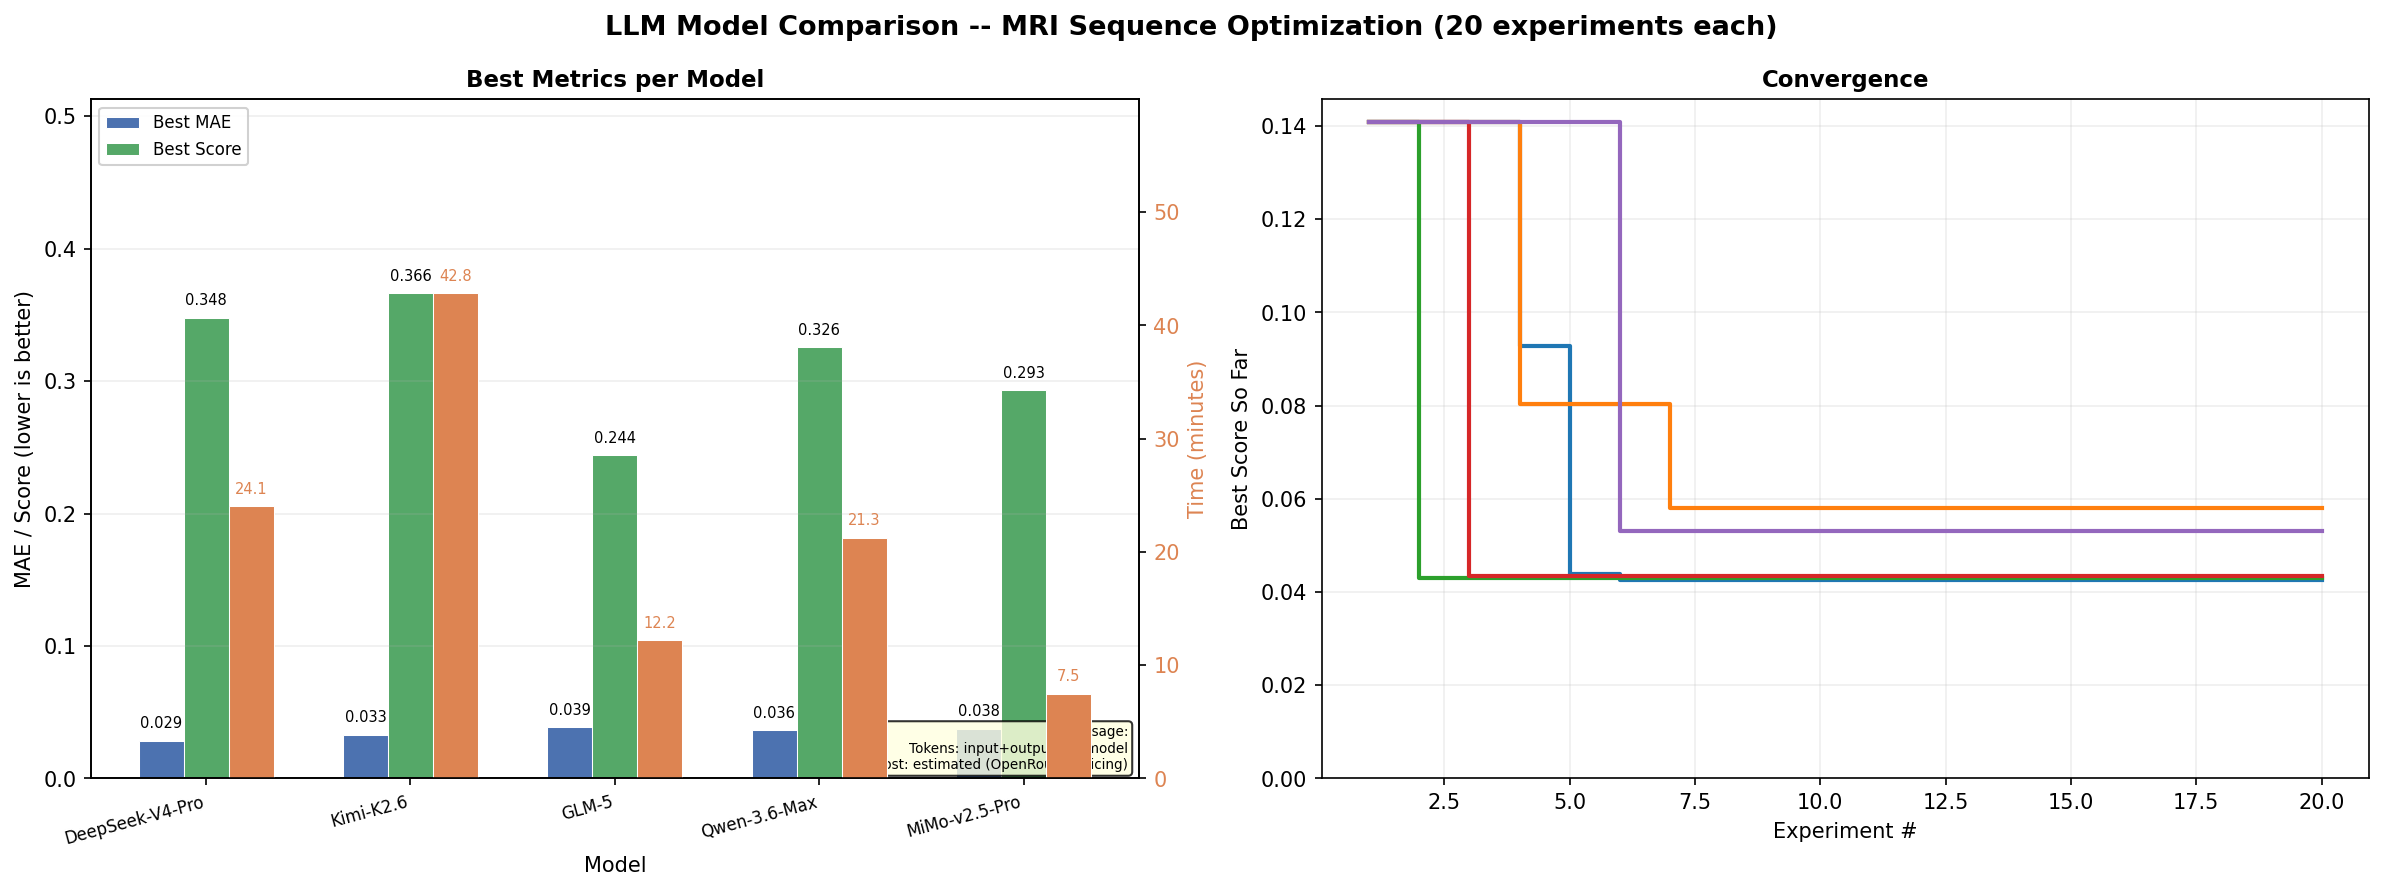
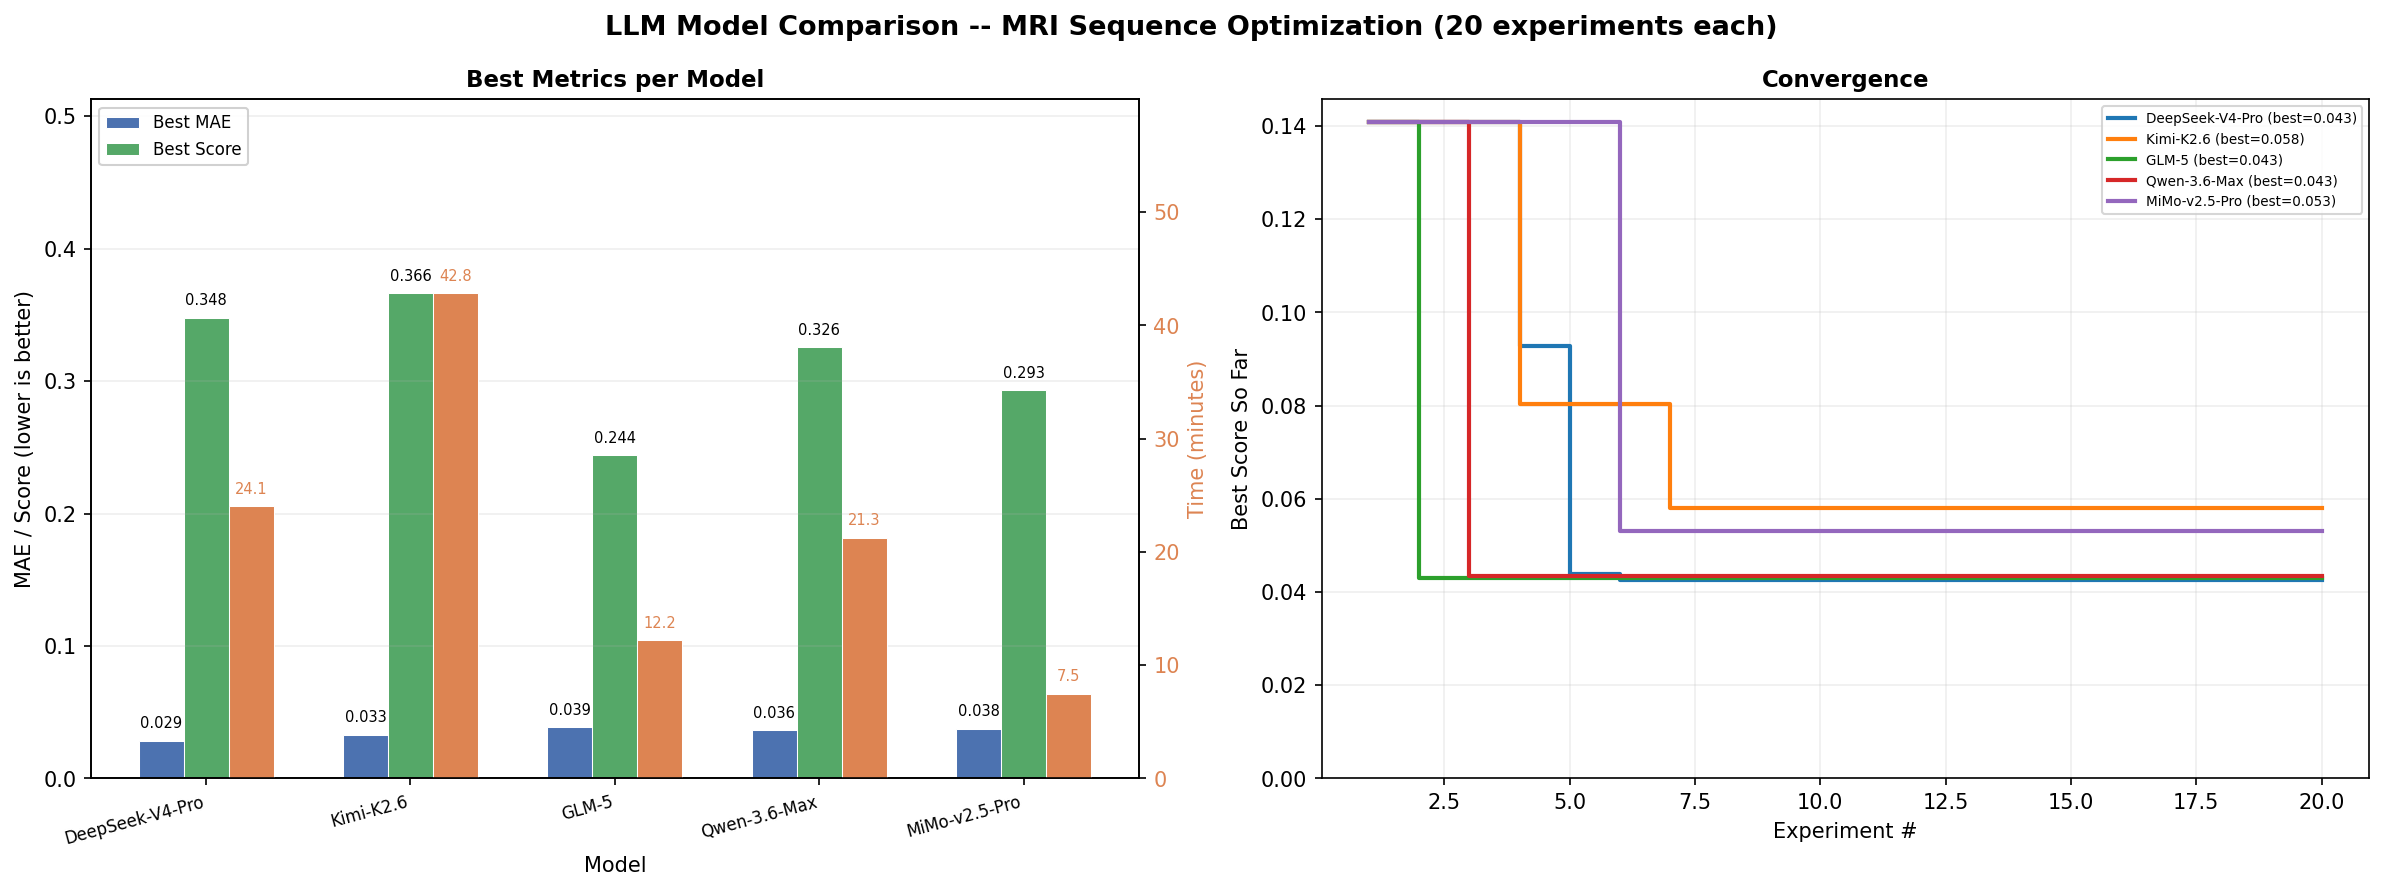
fix: remove bar chart cost footnote, restore convergence legend

Changed region(s): [[0.8691, 0.1212, 0.9933, 0.2424], [0.3725, 0.7879, 0.4966, 0.8788]]

diff --git a/benchmark/plot_convergence.py b/benchmark/plot_convergence.py
@@ -97,20 +97,6 @@ ax_bar.set_xticklabels(labels, rotation=15, ha='right', fontsize=8)
 ax_bar.legend(loc='upper left', fontsize=8, framealpha=0.9)
 ax_bar.grid(axis='y', alpha=0.2)
 
-# Token / cost annotation footnote
-cost_lines = []
-for info in summary.values():
-    if info.get("tokens_in") or info.get("tokens_out"):
-        cost_lines.append(
-            f'  Tokens: {info["tokens_in"]:,}+{info["tokens_out"]:,}  '
-            f'Cost: ${info["cost"]:.4f}' if info.get("cost") else ''
-        )
-        break  # show only once as a legend note
-if cost_lines:
-    ax_bar.text(0.99, 0.01, f"LLM usage:\nTokens: input+output per model\nCost: estimated (OpenRouter pricing)",
-                transform=ax_bar.transAxes, fontsize=6.5, ha='right', va='bottom',
-                bbox=dict(boxstyle='round,pad=0.3', facecolor='lightyellow', alpha=0.8))
-
 # ==================== RIGHT: Convergence Curves ====================
 for dir_name, label, color in MODELS:
     tsv_path = os.path.join(RESULTS_DIR, dir_name, "results.tsv")
@@ -145,11 +131,13 @@ for dir_name, label, color in MODELS:
         best = min(best, s)
         running.append(best)
 
-    ax_conv.step(exps, running, where="post", lw=2, color=color)
+    ax_conv.step(exps, running, where="post", lw=2, color=color,
+                 label=f"{label} (best={running[-1]:.3f})")
 
 ax_conv.set_xlabel('Experiment #', fontsize=10)
 ax_conv.set_ylabel('Best Score So Far', fontsize=10)
 ax_conv.set_title('Convergence', fontsize=11, fontweight='bold')
+ax_conv.legend(fontsize=6.5, loc='upper right')
 ax_conv.grid(True, alpha=0.2)
 ax_conv.set_ylim(bottom=0)
 